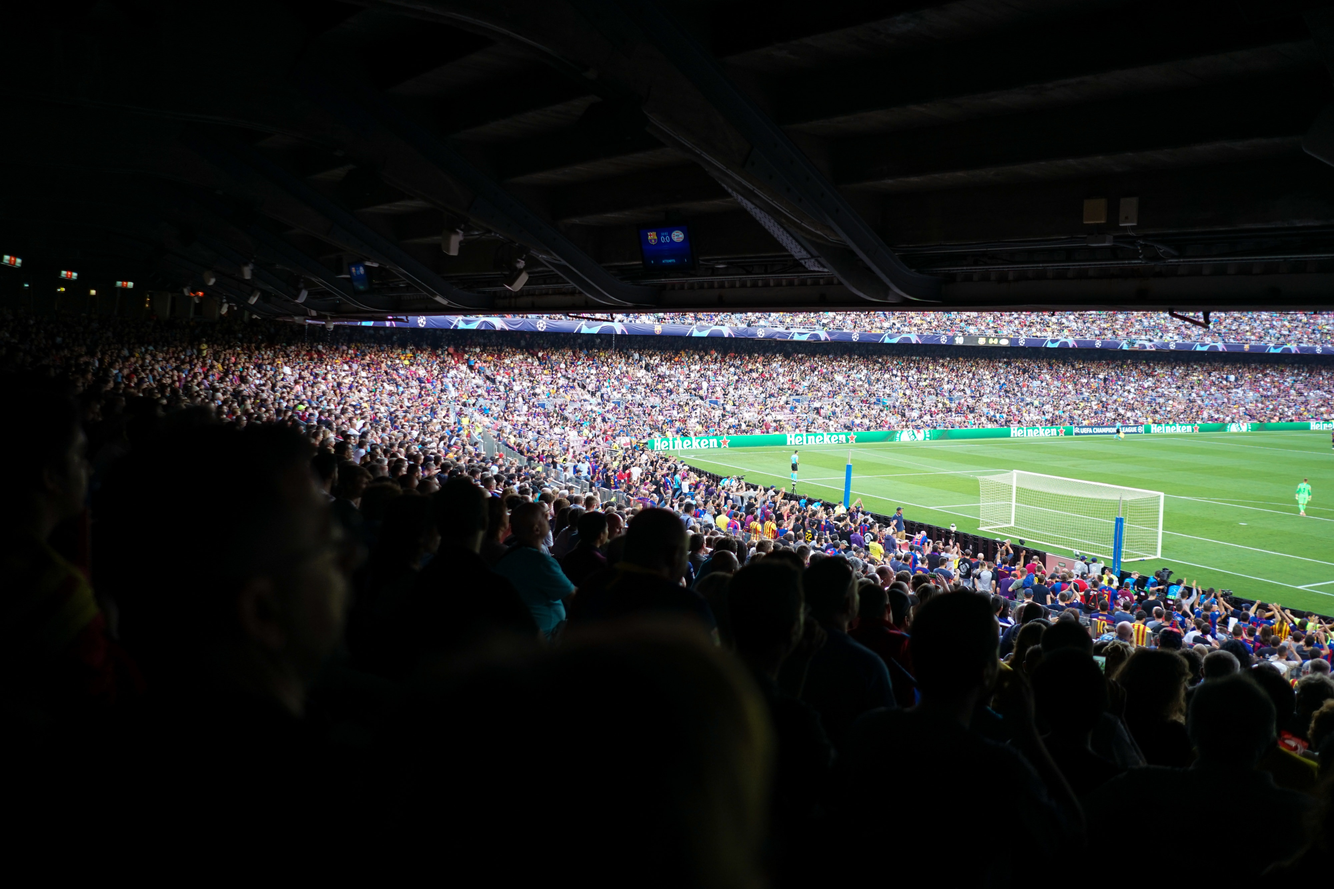
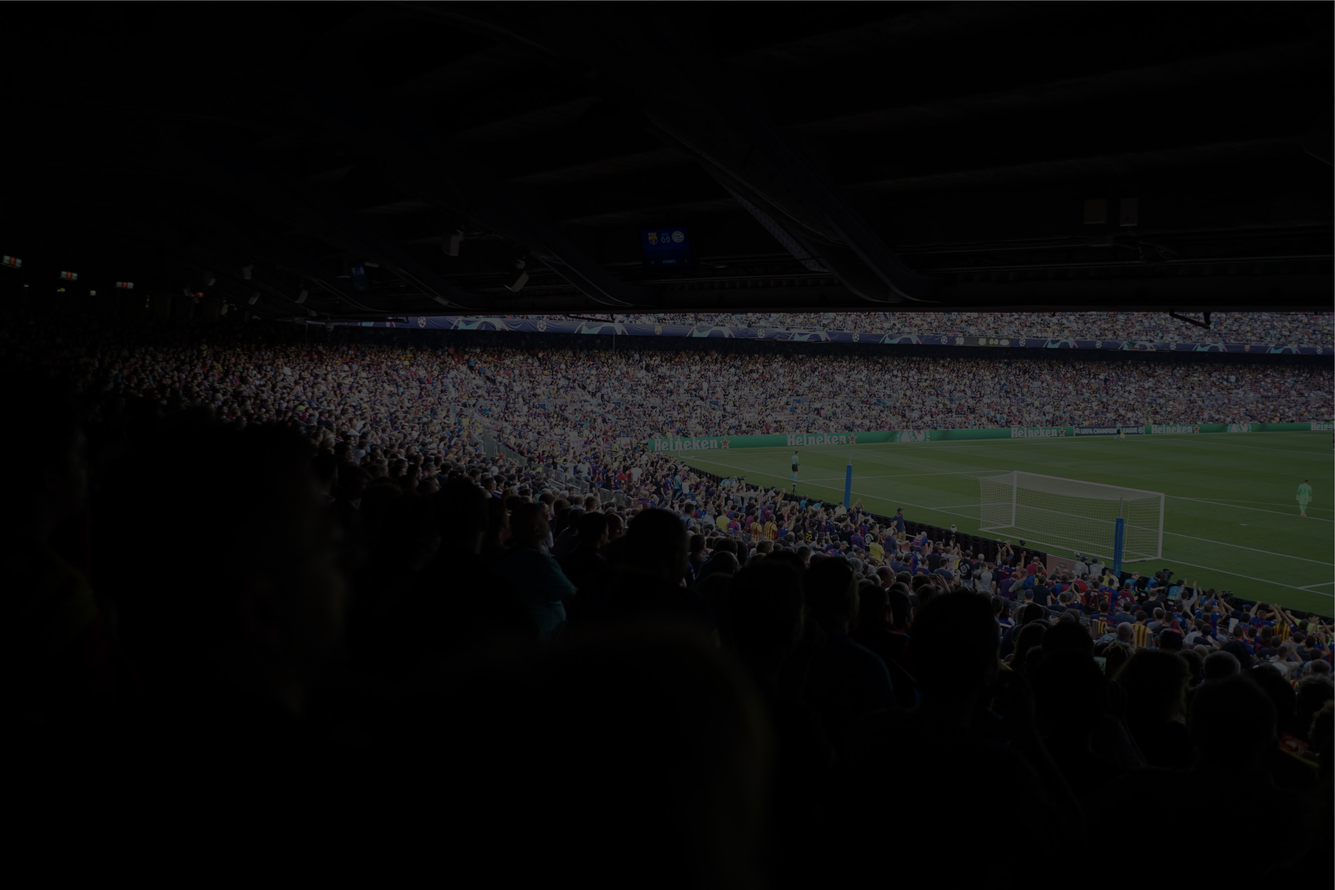
major changes, final draft

diff --git a/css/stylesheet.css b/css/stylesheet.css
@@ -128,11 +128,14 @@ header {
     padding-top: 6rem;
     padding-bottom: 3rem;
     background-color: #213A0E;
+    background-image: url('../img/bg2.png');
+    background-size: cover;
+    background-position: center;
 }
 
 .players-section h1 {
     margin-bottom: 0.5rem;
-    color: #C8ED86;
+    color: white;
 }
 
 .players-section h3 {
@@ -255,7 +258,10 @@ header {
     justify-content: center;
     padding-top: 3rem;
     padding-bottom: 6rem;
-    background-color: #213A0E;
+    background-color: #C0D4B2;
+    background-image: url('../img/bg1.png');
+    background-size: cover;
+    background-position: center;
 }
 
 .subscribediv {
@@ -282,7 +288,7 @@ header {
 }
 
 footer {
-    background-color: #7B9946;
+    background-color: #C0D4B2;
     color: #213A0E;
     text-align: center;
     display: flex;

diff --git a/index.html b/index.html
@@ -5,7 +5,7 @@
 <head>
 
 <title>Road to Champions League Glory</title>
-	<link rel="icon" type="image/x-icon" href="/img/favicon.ico">
+<link rel="shortcut icon" href="img/favicon.ico" />
 
 <meta charset="utf-8" />
 <meta name="viewport" content="width=device-width, initial-scale=1.0">
